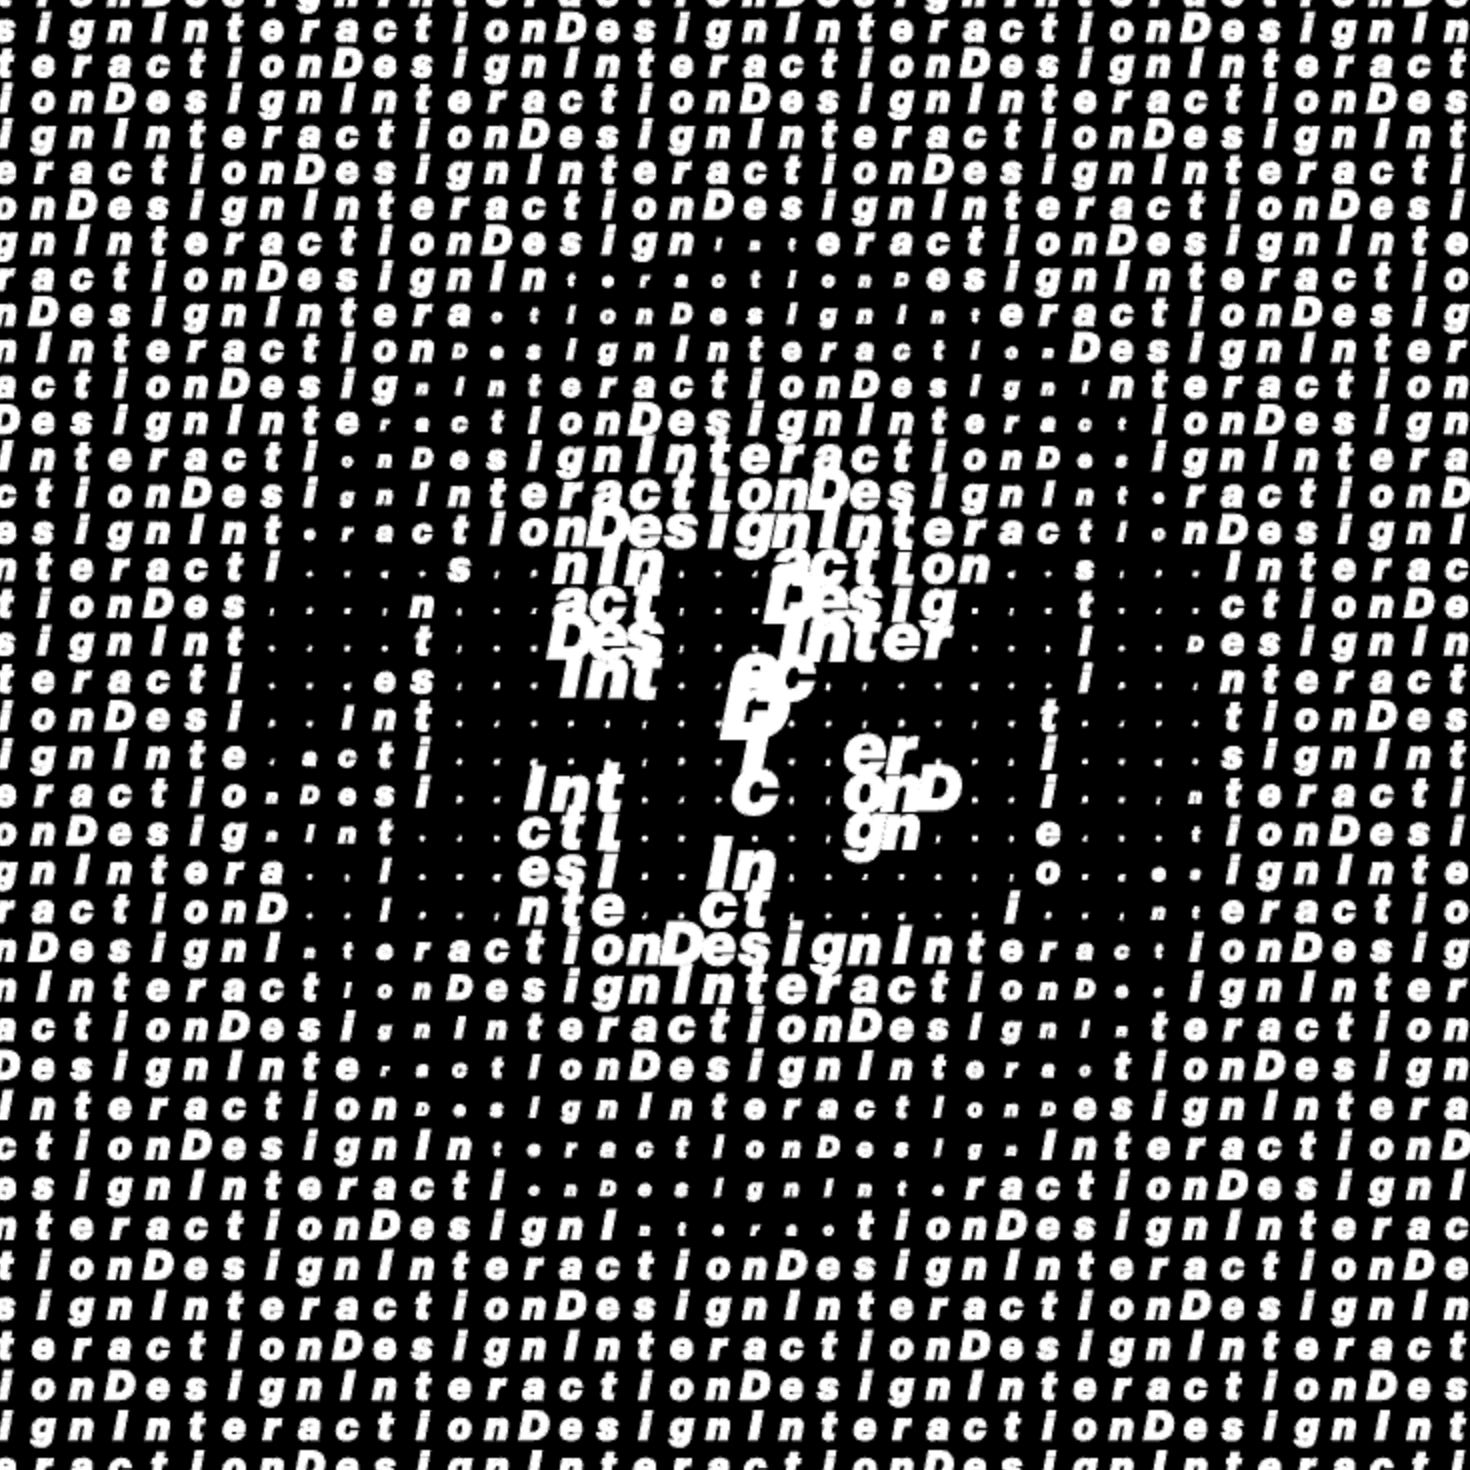
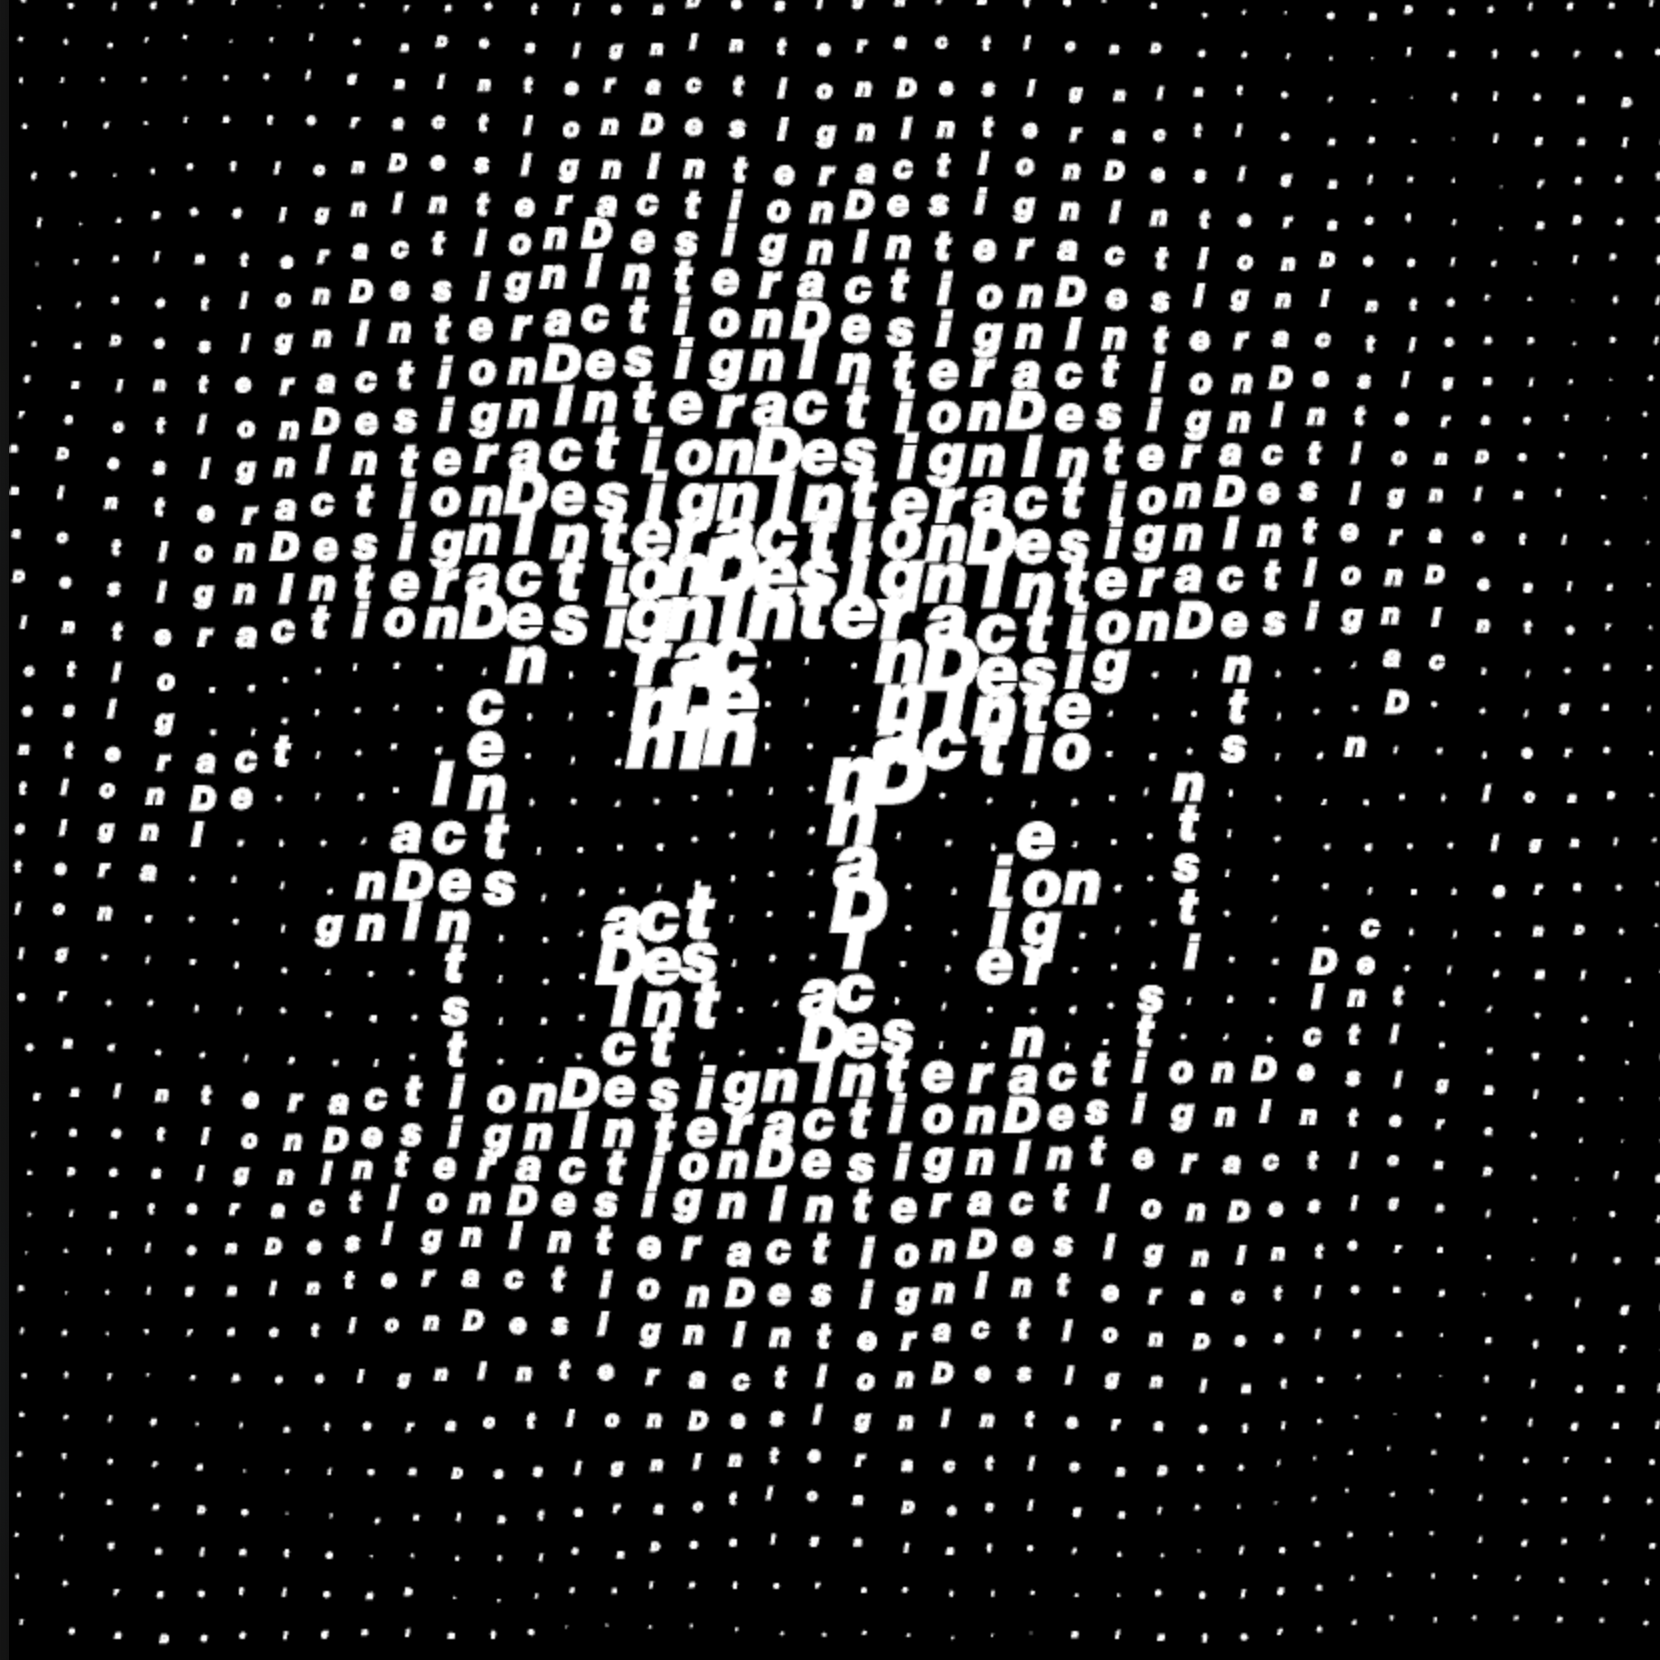
added perlin noise (?)

diff --git a/projects/01MainAssignments/project2/sketch.js b/projects/01MainAssignments/project2/sketch.js
@@ -7,8 +7,6 @@ let logoImg;
 let imgAspectRatio;
 let imgWidth, imgHeight;
 let gridSpacing
-// let blurAmount = 0
-// let targetBlurAmount = 0;
 
 let mousePressedFlag = false;
 
@@ -17,114 +15,92 @@ function preload() {
 }
 
 function setup() {
+  //lower framerate for less lag
+  frameRate(30);
   createCanvas(windowWidth, windowHeight);
   background(0);
   textAlign(CENTER, CENTER);
   textFont(font);
 
   let textSizeFinal = windowWidth>1000? 500: windowWidth/3;
-  // console.log(textSizeFinal)
 
   bigWordImg = createGraphics(windowWidth, windowHeight);
   bigWordImg.textFont(font);
   bigWordImg.pixelDensity(1)
-  // bigWordImg.textSize(windowWidth/3);
   bigWordImg.textSize(textSizeFinal);
-  // bigWordImg.textSize(500);
   bigWordImg.textAlign(CENTER, CENTER);
   bigWordImg.background(0);
   bigWordImg.fill(255);
   bigWordImg.text(bigWord, bigWordImg.width / 2, bigWordImg.height / 2);
   bigWordImg.loadPixels();
   pixelDensity(1)
-
-
 }
 
 function draw() {
   background(0);
   let index = 0;
-  // if (windowHeight < windowWidth) {
-  //   gridSpacing = windowHeight/40;
-  // } else {
-  //   gridSpacing = windowWidth/40;
-  // }
 
-  gridSpacing = min(windowWidth, windowHeight) / 40;
+  gridSpacing = min(windowWidth, windowHeight) / 40, 10;
 
   mouseRadius = lerp(mouseRadius, targetRadius, 0.1);
-  // blurAmount = lerp(blurAmount, targetBlurAmount, 0.1);
 
+    for (let y = gridSpacing / 2; y < height; y += gridSpacing) {
+      for (let x = gridSpacing / 2; x < width; x += gridSpacing) {
+          let letter = message[index % message.length];
+          fill(255);
+          stroke(255)
 
+          let distance = dist(mouseX, mouseY, x, y);
+          let size = gridSpacing/width;
 
-      for (let y = gridSpacing / 2; y < height; y += gridSpacing) {
-        for (let x = gridSpacing / 2; x < width; x += gridSpacing) {
-            let letter = message[index % message.length];
-            fill(255);
-            stroke(255)
+          let imgX = floor(map(x, 0, width, 0, bigWordImg.width));
+          let imgY = floor(map(y, 0, height, 0, bigWordImg.height));
+          let pixelIndex = (imgY * bigWordImg.width + imgX) * 4;
 
-            let distance = dist(mouseX, mouseY, x, y);
-            let size = gridSpacing/width;
+          let r = bigWordImg.pixels[pixelIndex];
+          let g = bigWordImg.pixels[pixelIndex + 1];
+          let b = bigWordImg.pixels[pixelIndex + 2];
 
-            let imgX = floor(map(x, 0, width, 0, bigWordImg.width));
-            let imgY = floor(map(y, 0, height, 0, bigWordImg.height));
-            let pixelIndex = (imgY * bigWordImg.width + imgX) * 4;
-            let r = bigWordImg.pixels[pixelIndex];
-            let g = bigWordImg.pixels[pixelIndex + 1];
-            let b = bigWordImg.pixels[pixelIndex + 2];
+          // let noiseScale = 0.005; 
+          let noiseScale = 0.01; 
+          let noiseOffset = frameCount * 0.01;
 
-            let waveAmplitude = 25
-            let waveSpeed = frameCount * 0.05;
-            let noiseScale = 0.005; 
+          let noiseValue = noise(x * noiseScale, y * noiseScale, noiseOffset);
 
-            // if (mousePressedFlag) {
-            //   waveAmplitude = 10; 
+          let waveX = map(noiseValue, 0, 1, -15, 15);
+          let waveY = map(noiseValue, 0, 1, -15, 15);
 
-            // } else {
-                waveAmplitude = 25; 
-            // }
-      
-            let waveX = sin((x * noiseScale) + waveSpeed) * waveAmplitude;
-            let waveY = cos((y * noiseScale) + waveSpeed) * waveAmplitude;
-      
-            let finalX = x + waveX * 0.25; 
-            let finalY = y + waveY * 0.5;       
-      
-            //inside radius
-            if (distance < mouseRadius) {
-                if (r < 128 && g < 128 && b < 128) {
-                  size += map(distance, 0, mouseRadius, 12, 2)
-                } else {
-                  size -= 1
-                }
+          let finalX = x + waveX;
+          let finalY = y + waveY;
+    
+          //inside radius
+          if (distance < mouseRadius) {
+              if (r < 128 && g < 128 && b < 128) {
+                size += map(distance, 0, mouseRadius, 12, 0);
 
-              //outside radius
               } else {
-                size += 5
+                size -= 1
               }
-          
 
-            textSize(size * 4);
-            // text(letter, x, y - (textAscent() + textDescent()) / 4);
-            text(letter, finalX, finalY- (textAscent() + textDescent()) / 4);
-            index++;
-        }
+            } else {
+              size += noiseValue * 2
+            }
+        
+
+          textSize(size * 4);
+          text(letter, finalX,finalY -(textAscent() + textDescent())/4)
+
+          index++;
       }
-
-      // if (blurAmount > 0) {
-      //   filter(BLUR, blurAmount);
-      // }
-
+    }
 }
 
 function mousePressed() { 
   mousePressedFlag = true;
   targetRadius = 700;
-  // targetBlurAmount = 3;
 }
 
 function mouseReleased() { 
   mousePressedFlag = false;
   targetRadius = 250;
-  // targetBlurAmount = 0;
 }

diff --git a/projects/01MainAssignments/project1/sketch.js b/projects/01MainAssignments/project1/sketch.js
@@ -1,7 +1,4 @@
-// let message = "InteractionDesign";
 let message = "interactiondesign";
-// let mouseRadius = 200;
-// let targetRadius = 200;
 let mouseRadius = 100;
 let targetRadius = 100;
 let bigWordPixels = [];
@@ -34,9 +31,9 @@ function setup() {
   imgWidth = windowWidth>1000? 1200 : gridSpacing * 45;
   imgHeight = imgWidth
 
-    logoImg.resize(windowWidth,windowHeight)
-    logoImg.pixelDensity(1)
-    logoImg.loadPixels();
+  logoImg.resize(windowWidth,windowHeight)
+  logoImg.pixelDensity(1)
+  logoImg.loadPixels();
 }
 
 function draw() {
@@ -75,7 +72,6 @@ function draw() {
         let b = logoImg.pixels[pixelIndex + 2];
 
 
-
           //inside the radius
           if (distance < mouseRadius) {
             if (r < 128 && g < 128 && b < 128) {
@@ -95,6 +91,8 @@ function draw() {
             size += 4;
             // size += abs(sin((frameCount*0.05)+(x/2+y/2)*0.6) * 6)
           }
+
+          // let noiseValue = noise(x * 0.05, y * 0.05, frameCount * 0.05);
 
 
 
